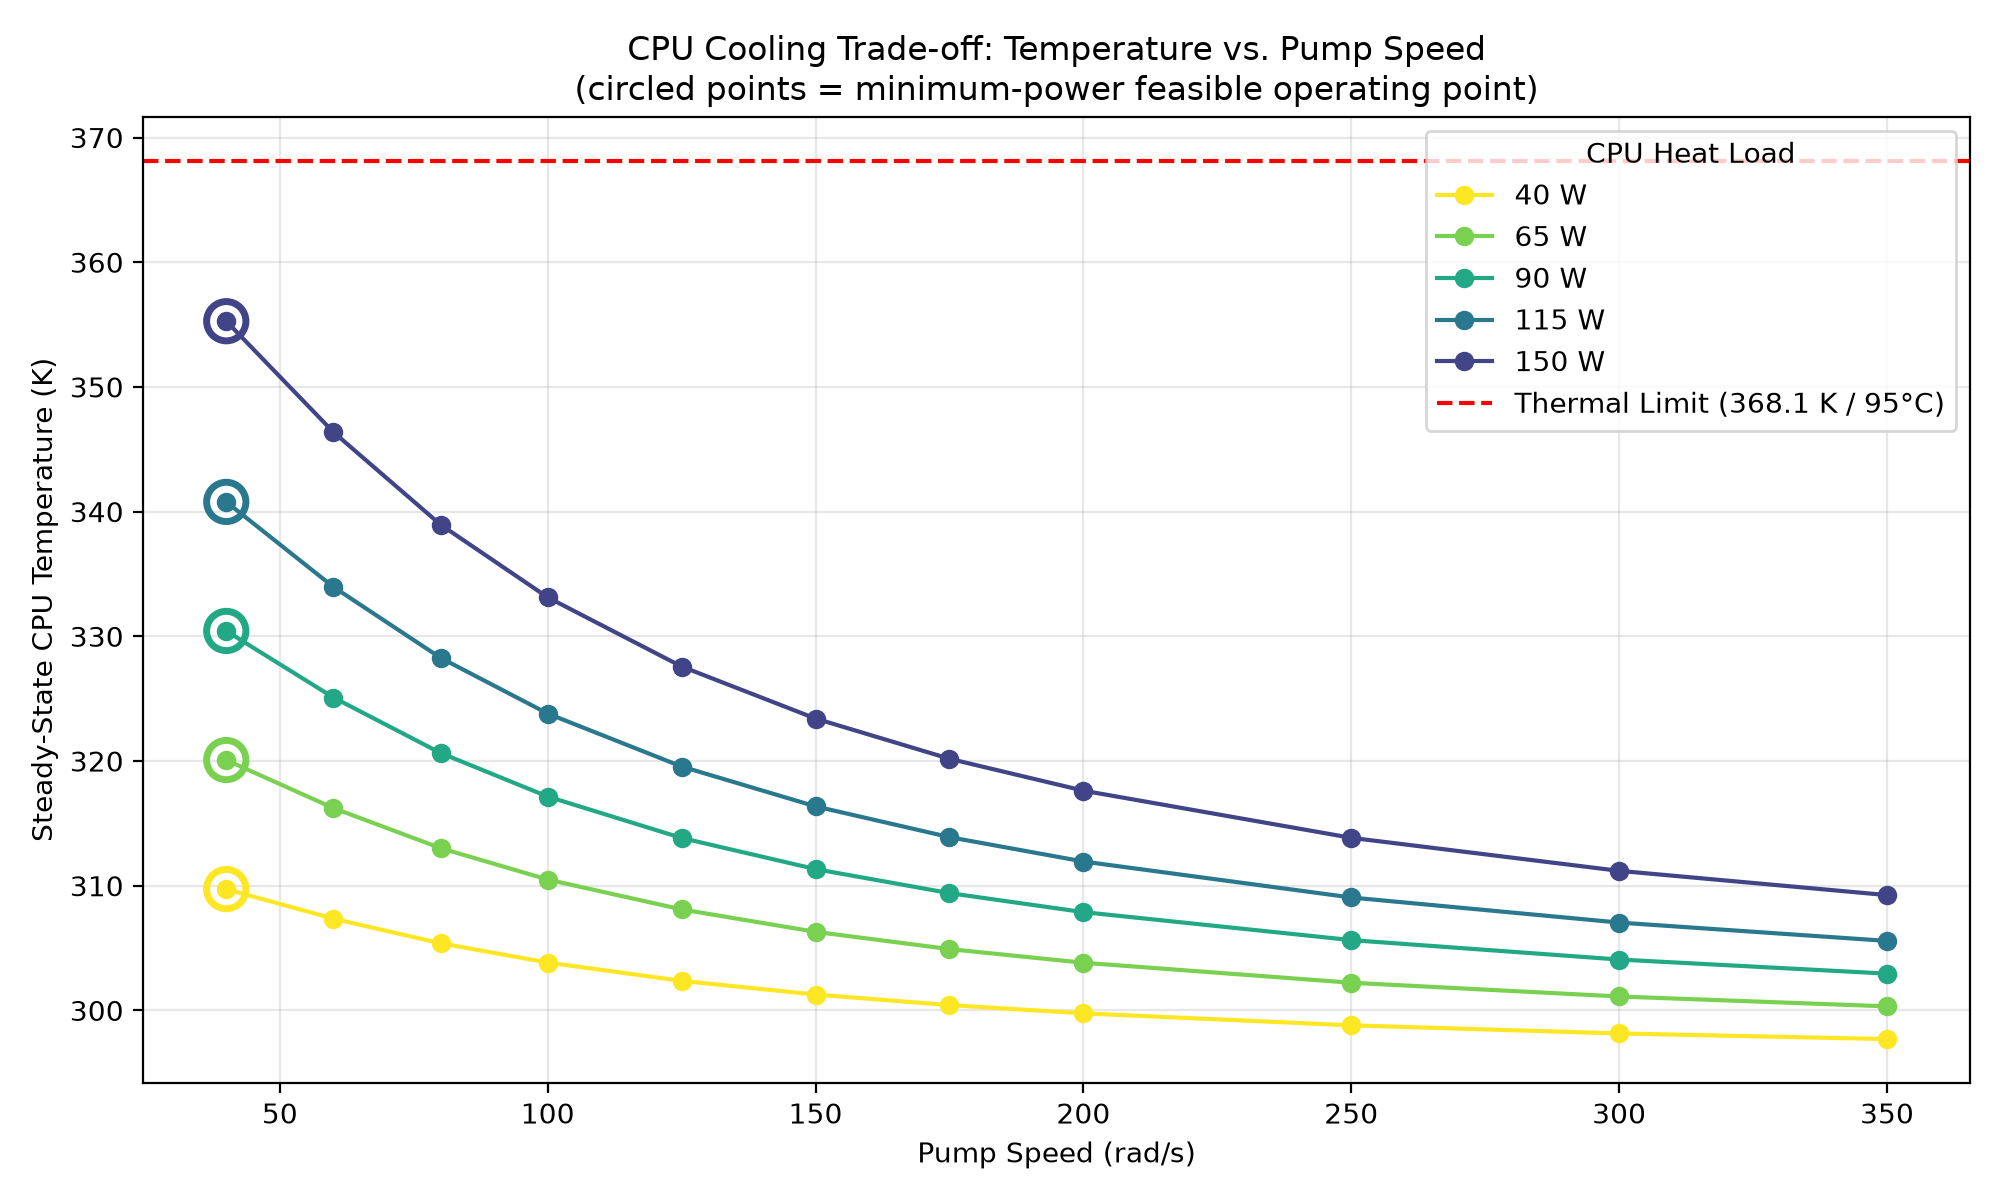
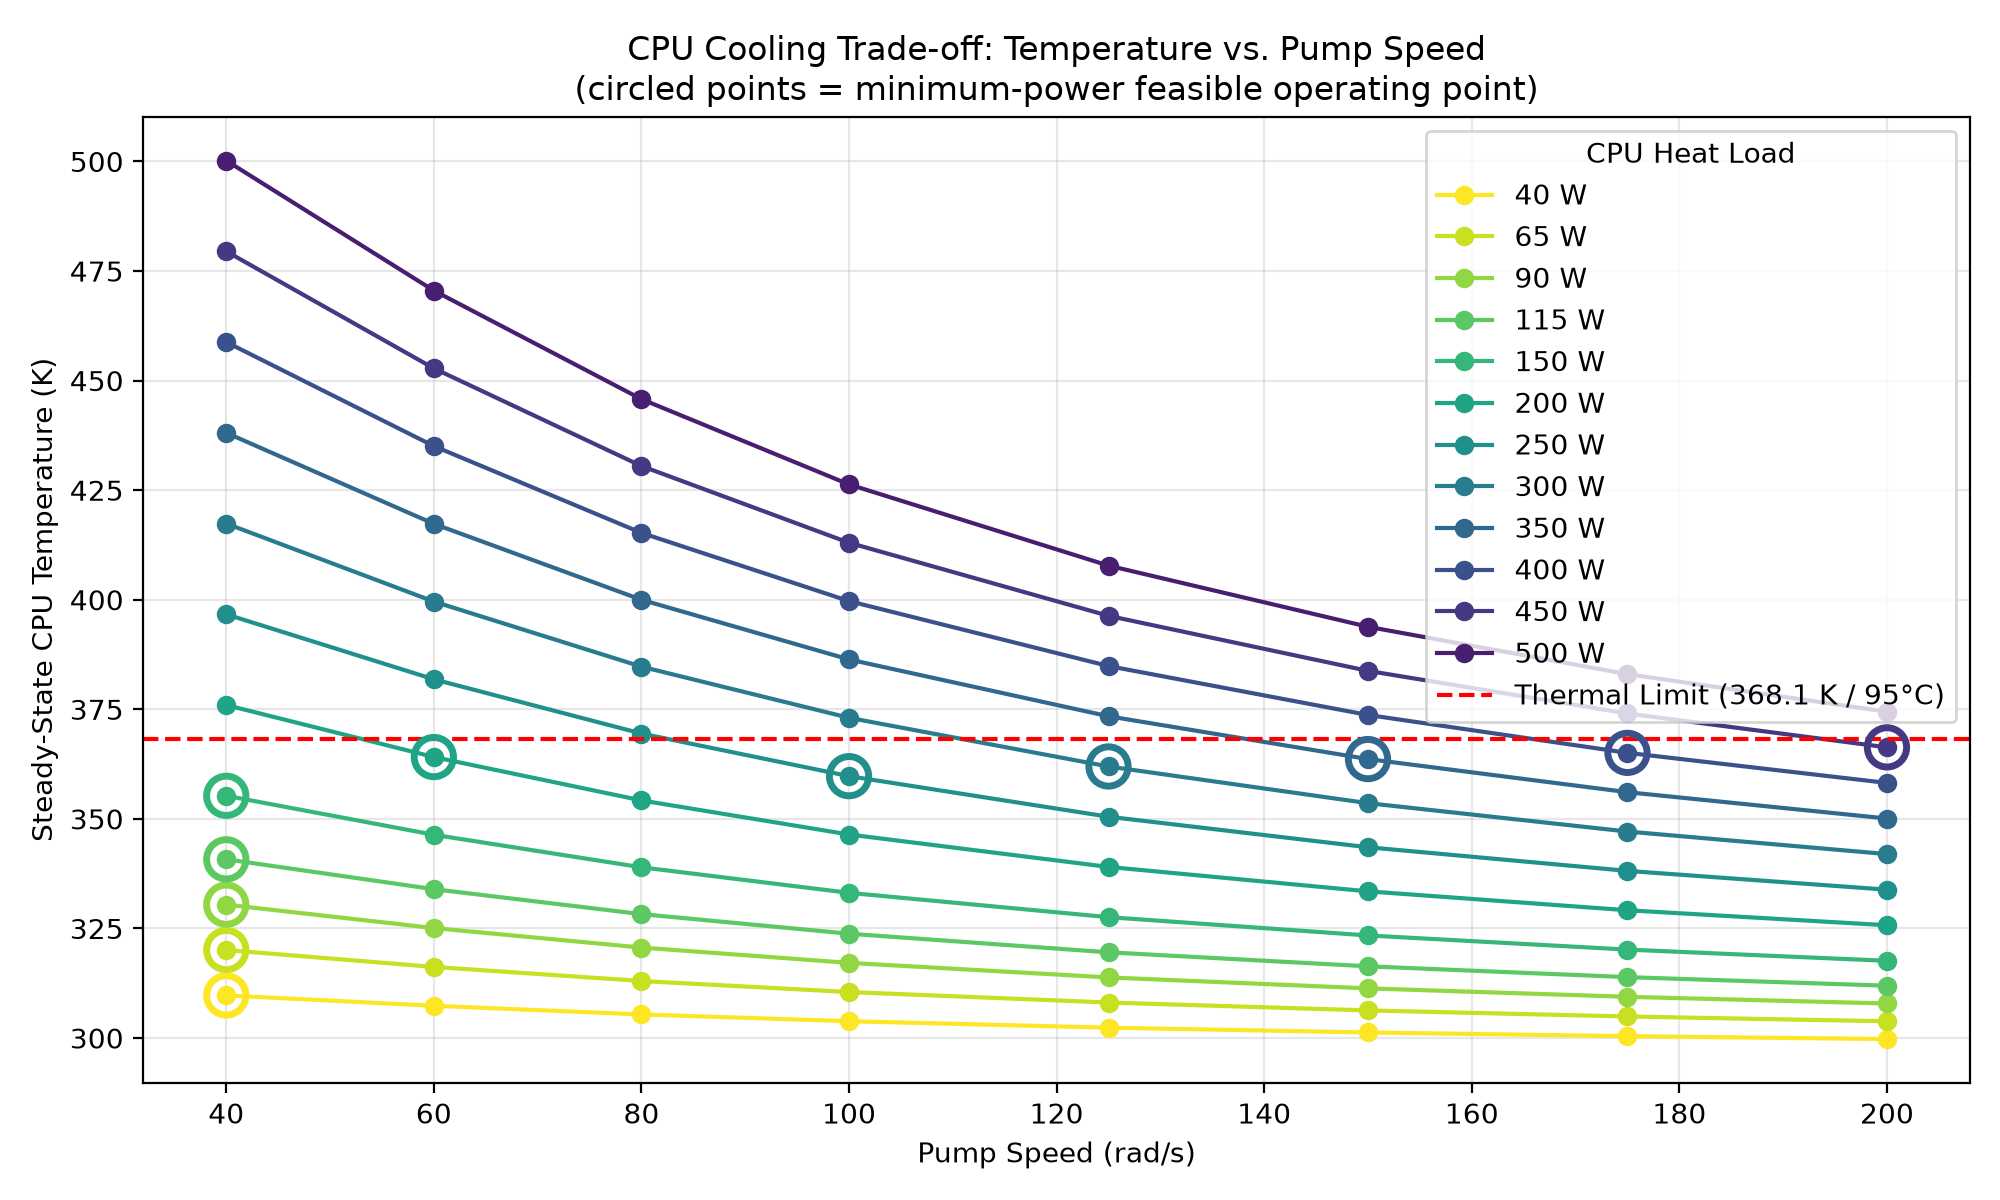
update

diff --git a/Scripts/compute_optimal_power.py b/Scripts/compute_optimal_power.py
@@ -1,0 +1,71 @@
+"""
+Computes pump hydraulic power for each heat load's optimal (minimum-power,
+thermally-safe) operating point, and saves the result.
+
+Inputs:
+    results/full_sweep_final.csv       (from sweep_pump_speed.py)
+    results/optimization_results.csv   (from optimize.py)
+
+Output:
+    results/optimal_power.csv          (one row per heat load, with pump power)
+"""
+
+import pandas as pd
+
+RHO_WATER = 1000  # kg/m^3
+
+SWEEP_PATH = r'S:\Projects\datacenter_cooling\results\final_data.csv'
+OPT_PATH = r'S:\Projects\datacenter_cooling\results\optimization_results.csv'
+OUT_PATH = r'S:\Projects\datacenter_cooling\results\optimal_power.csv'
+
+sweep_df = pd.read_csv(SWEEP_PATH)
+opt_df = pd.read_csv(OPT_PATH)
+
+results = []
+
+for _, row in opt_df.iterrows():
+    heat = row['heat_load_W']
+
+    if row['status'] != 'OK':
+        results.append({
+            'heat_load_W': heat,
+            'optimal_speed_rad_s': None,
+            'cpu_temp_K': None,
+            'pump_power_W': None,
+            'status': row['status']
+        })
+        continue
+
+    speed = row['optimal_speed_rad_s']
+
+    # Find the matching row in the full sweep for this exact (heat, speed) pair
+    match = sweep_df[
+        (sweep_df['heat_load_W'] == heat) &
+        (sweep_df['pump_speed_rad_s'] == speed)
+    ]
+
+    if match.empty:
+        print(f"Warning: no matching sweep row for heat={heat}W, speed={speed} rad/s")
+        continue
+
+    match = match.iloc[0]
+
+    delta_p_Pa = match['pump_pressure_out'] - match['pump_pressure_in']
+    volumetric_flow_m3s = match['flow_rate_kg_s'] / RHO_WATER
+    pump_power_W = delta_p_Pa * volumetric_flow_m3s
+
+    results.append({
+        'heat_load_W': heat,
+        'optimal_speed_rad_s': speed,
+        'cpu_temp_K': round(match['cpu_temp_K'], 2),
+        'delta_p_Pa': round(delta_p_Pa, 2),
+        'flow_rate_kg_s': round(match['flow_rate_kg_s'], 5),
+        'pump_power_W': round(pump_power_W, 4),
+        'status': 'OK'
+    })
+
+out_df = pd.DataFrame(results)
+print(out_df.to_string(index=False))
+
+out_df.to_csv(OUT_PATH, index=False)
+print(f"\nSaved to {OUT_PATH}")

diff --git a/Scripts/sweep_run.py b/Scripts/sweep_run.py
@@ -1,7 +1,7 @@
 import matlab.engine
 import numpy as np
 import pandas as pd
-
+print("STARTED")
 eng = matlab.engine.start_matlab()
 eng.cd(r'S:\Projects\datacenter_cooling\models', nargout=0)
 
@@ -16,9 +16,12 @@ heat_block_path = f'{model_name}/heat_flow'
 #speed_values = [50, 75, 100, 125, 150, 175, 200, 250, 300, 350]  # rad/s - we found 50 is the optimal angular velocity in this set of values
 #optimizing further with lower speed values
 #speed_values_opt = list(range(30,37,1)) - found that pump produces positive pressure above 33rad/s
+#Choosing 40 rad/s as base considering factor for safety
+speed_values = [40, 60, 80, 100, 125, 150, 175, 200]  # rad/s
 
-speed_values = [40, 60, 80, 100, 125, 150, 175, 200, 250, 300, 350]  # rad/s
-heat_values = [40, 65, 90, 115, 150]  # Watts
+#heat_values = [40, 65, 90, 115, 150, 200]  # Watts
+
+heat_values = [40, 65, 90, 115, 150, 200, 250, 300, 350, 400, 450, 500]  # Watts
 
 results = []
 total_runs = len(speed_values) * len(heat_values)
@@ -64,5 +67,5 @@ df = pd.DataFrame(results)
 print("\n--- Full Sweep Results ---")
 print(df)
 
-df.to_csv(r'S:\Projects\datacenter_cooling\results\full_sweep_test.csv', index=False)
+df.to_csv(r'S:\Projects\datacenter_cooling\results\final_data.csv', index=False)
 print("\nSaved to results/full_sweep_test.csv")

diff --git a/Scripts/pump_power.py b/Scripts/pump_power.py
@@ -1,7 +1,7 @@
 import pandas as pd
 import matplotlib.pyplot as plt
 
-df = pd.read_csv(r'S:\Projects\datacenter_cooling\results\full_sweep_opt.csv')
+df = pd.read_csv(r'S:\Projects\datacenter_cooling\results\final_data.csv')
 
 RHO_WATER = 1000  # kg/m^3
 
@@ -41,5 +41,5 @@ plt.show()
 print("\nSaved to results/pump_power_plot.png")
 
 # Save updated CSV with power column included
-df.to_csv(r'S:\Projects\datacenter_cooling\results\full_sweep_with_power.csv', index=False)
+df.to_csv(r'S:\Projects\datacenter_cooling\results\final_data_with_power.csv', index=False)
 print("Saved updated CSV with power calculations.")

diff --git a/Scripts/plot_final.py b/Scripts/plot_final.py
@@ -1,7 +1,7 @@
 import pandas as pd
 import matplotlib.pyplot as plt
 
-df = pd.read_csv(r'S:\Projects\datacenter_cooling\results\full_sweep_final.csv')
+df = pd.read_csv(r'S:\Projects\datacenter_cooling\results\final_data.csv')
 opt_df = pd.read_csv(r'S:\Projects\datacenter_cooling\results\optimization_results.csv')
 
 RHO_WATER = 1000

diff --git a/Scripts/plot_tradeoff.py b/Scripts/plot_tradeoff.py
@@ -1,7 +1,7 @@
 import pandas as pd
 import matplotlib.pyplot as plt
 
-df = pd.read_csv(r'S:\Projects\datacenter_cooling\results\full_sweep_test.csv')
+df = pd.read_csv(r'S:\Projects\datacenter_cooling\results\final_data.csv')
 
 THERMAL_LIMIT_K = 368.15  # 95°C
 

diff --git a/Scripts/optimize.py b/Scripts/optimize.py
@@ -1,6 +1,6 @@
 import pandas as pd
 
-df = pd.read_csv(r'S:\Projects\datacenter_cooling\results\full_sweep_final.csv')
+df = pd.read_csv(r'S:\Projects\datacenter_cooling\results\final_data.csv')
 
 RHO_WATER = 1000
 THERMAL_LIMIT_K = 368.15
